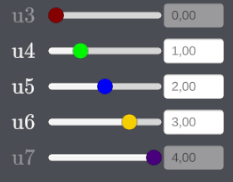
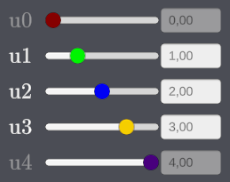
Added sidebar

diff --git a/manualeutente.html b/manualeutente.html
@@ -18,6 +18,38 @@
 </head>
 
 <body>
+<!-- SIDEBAR -->
+<div class="d-flex">
+<nav id="sidebar" class="bg-dark border-end p-3"
+    style="width:260px; height:100vh; position:sticky; top:0; overflow-y:auto;">
+
+    <h5 class="mb-3">Indice</h5>
+
+    <ul class="nav flex-column">
+
+        <li class="nav-item"><a class="nav-link" href="#menu-principale">Menu principale</a></li>
+        <li class="nav-item"><a class="nav-link" href="#ambienti-creazione">Ambienti di creazione</a></li>
+
+        <li class="nav-item ms-2"><a class="nav-link" href="#creazione-curva">Creazione curva</a></li>
+        <li class="nav-item ms-2"><a class="nav-link" href="#visualizzazione-curva">Visualizzazione curva</a></li>
+        <li class="nav-item ms-2"><a class="nav-link" href="#modifica-curva">Modifica curva</a></li>
+        <li class="nav-item ms-2"><a class="nav-link" href="#analisi-curva">Analisi curva</a></li>
+        <li class="nav-item ms-2"><a class="nav-link" href="#spazio-3d">Spazio 3D</a></li>
+
+        <li class="nav-item"><a class="nav-link" href="#menu-pannelli">Menu a pannelli</a></li>
+
+        <li class="nav-item ms-2"><a class="nav-link" href="#grafici-curvatura-torsione">Curvatura e torsione</a></li>
+        <li class="nav-item ms-2"><a class="nav-link" href="#punti-controllo">Punti di controllo</a></li>
+        <li class="nav-item ms-2"><a class="nav-link" href="#nodi-bspline">Nodi B-Spline</a></li>
+        <li class="nav-item ms-2"><a class="nav-link" href="#dominio-curva">Dominio curva</a></li>
+
+        <li class="nav-item"><a class="nav-link" href="#bottoni">Bottoni</a></li>
+        <li class="nav-item ms-2"><a class="nav-link" href="#bottone-piano-osculatore-binormale">Bottone di visualizzazione di piano osculatore e binormale</a></li>
+        <li class="nav-item ms-2"><a class="nav-link" href="#bottone-poligoni-bezier">Bottone di visualizzazione dei poligoni di Bezier</a></li>
+        <li class="nav-item ms-2"><a class="nav-link" href="#bottone-back">Bottone di ritorno</a></li>
+
+    </ul>
+</nav>
 
 <!-- NAVBAR -->
 <nav class="navbar navbar-expand-lg navbar-light fixed-top py-3" id="mainNav">
@@ -44,7 +76,7 @@
 <h1 class="mb-4">Manuale utente</h1>
 
 <!-- SEZIONE -->
-<h2>Menu principale</h2>
+<h2 id="menu-principale">Menu principale</h2>
 <div class="row align-items-center mb-5">
     <div class="col-md-7">
         <p>All'avvio l'applicazione presenta un menu con tre opzioni possibili di creazione di curve:</p>
@@ -60,7 +92,7 @@
     </div>
 </div>
 
-<h2>Ambienti di creazione</h2>
+<h2 id="ambienti-creazione">Ambienti di creazione</h2>
 <div class="row align-items-center mb-5">
     <div class="col-md-7">
         <p> Tutti e tre i possibili ambienti di creazione si presentano con un menu a pannelli a destra contente i dati della curva e uno spazio 3D a sinistra contenente la curva ed evidenziato dal sistema di riferimento indicato come segue: </p>
@@ -78,15 +110,14 @@
     </div>
 </div>
 
-<h3>Creazione della curva</h3>
+<h3 id="creazione-curva">Creazione della curva</h3>
 <div class="row align-items-center mb-5">
     <div class="col-md-12">
         <p>All’apertura di un ambiente di creazione la curva può essere creata posizionando i punti di controllo del poligono (4 per le Bezier di grado 3, 5 per le Bezier di grado 4, 7 per le B-Spline) nello spazio 3D (vedi sezione Spazio 3D).</p>
-
         <p>Sarà possibile eseguire questa operazione in due modi:</p>
 
         <ul>
-            <li>Cliccando con il tasto sinistro del mouse in un punto dello spazio 3D</li>
+            <li>Cliccando con il mouse in un punto dello spazio 3D</li>
             <li>Digitando le coordinate XYZ per ogni punto di controllo nel pannello corrispondente (vedi sezione Pannello dei punti di controllo)</li>
         </ul>
 
@@ -94,7 +125,7 @@
     </div>
 </div>
 
-<h3>Visualizzazione della curva</h3>
+<h3 id="visualizzazione-curva">Visualizzazione della curva</h3>
 <div class="row align-items-center mb-5">
     <div class="col-md-12">
         <p>Alla creazione della curva, la telecamera punterà sempre al centro di essa. Per visualizzarla da diverse angolazioni:</p>
@@ -104,19 +135,19 @@
             <li>Premendo D per ruotare verso destra</li>
             <li>Premendo W per ruotare verso l'alto</li>
             <li>Premendo S per ruotare verso il basso</li>
-            <li>Scorrendo la rotella del mouse in avanti per avvicinarsi</li>
-            <li>Scorrendo la rotella del mouse indietro per allontanarsi</li>
+            <li>Scorrendo la rotella del mouse in avanti per avvicinarsi, o con gesture da touchpad</li>
+            <li>Scorrendo la rotella del mouse indietro per allontanarsi, o con gesture da touchpad</li>
         </ul>
     </div>
 </div>
 
-<h3>Modifica della curva</h3>
+<h3 id="modifica-curva">Modifica della curva</h3>
 <div class="row align-items-center mb-5">
     <div class="col-md-12">
         <p>Una volta creata, la curva potrà essere modificata agendo in tre modi distinti:</p>
 
         <ul>
-            <li>Tenendo premuto con il tasto sinistro del mouse su un punto di controllo questo può essere trascinato in un punto a piacere dello spazio.</li>
+            <li>Tenendo premuto con il mouse su un punto di controllo questo può essere trascinato in un punto a piacere dello spazio.</li>
             <li>Inserendo un valore specifico per le coordinate X, Y o Z di un punto di controllo nel pannello (vedi sezione Pannello dei punti di controllo)</li>
             <li><strong>Solo per le B-Spline</strong>: modificando il valore di uno dei nodi della curva utilizzando il pannello corrispondente</li>
         </ul>
@@ -126,36 +157,42 @@
     </div>
 </div>
 
-<h3>Analisi della curva</h3>
+<h3 id="analisi-curva">Analisi della curva</h3>
 <div class="row align-items-center mb-5">
     <p>La curva presente a schermo può essere analizzata utilizzando i pannelli presenti nel menu a destra di ogni ambiente di creazione. Per maggiori dettagli leggere la sezione Menu a pannelli.</p>
 </div>
 
-<h3>Spazio 3D</h3>
+<h3 id="spazio-3d">Spazio 3D</h3>
 <div class="row align-items-center mb-5">
     <div class="col-md-7">
         <p>Lo spazio 3D posizionato sul lato sinistro di ogni ambiente di creazione conterrà la visualizzazione della curva prescelta:</p>
         <ul>
-            <li>Pallini bianchi: punti di controllo</li>
+            <li>Pallini bianchi: punti di controllo (interagili)</li>
             <li>Segmenti rossi: poligono di controllo</li>
             <li>Linea bianca: curva risultante</li>
-            <li>Pallino giallo: punto della cruva selezionato</li>
+            <li>Pallino giallo: marker dello specifico punto della curva selezionato</li>
+            <li>Freccia gialla: vettore binormale</li>
+            <li>Piano giallo: piano osculatore</li>
         </ul>
         <p><strong>Solo B-Spline</strong></p>
         <ul>
-            <li>Linee blu: poligono di controllo di Bezier</li>
+            <li>Linee blu: poligoni di controllo di Bezier</li>
             <li>Trattini verdi: punti di controllo di Bezier</li>
         </ul>
     </div>
     <div class="col-md-5 text-center">
-        <img src="Immagini/Curva.png" class="img-fluid rounded shadow" style="max-width:220px;">
-        <img src="Immagini/CurvaBspline.png" class="img-fluid rounded shadow" style="max-width:220px;">
+        <img src="Immagini/CurvaBezier.png" class="img-fluid rounded shadow" style="max-width:220px;">
+        <img src="Immagini/SectionSpline.png" class="img-fluid rounded shadow" style="max-width:220px;">
     </div>
 </div>
 
-<h2>Menu a pannelli</h2>
+<h2 id="menu-pannelli">Menu a pannelli</h2>
+<div class="row align-items-center mb-5">
+    <p> Il menu a pannelli posizionato sul lato destro di ogni ambiente di creazione permette di interagire con la curva e analizzarne i valori matematici.</p>
+    <p><strong>Nota bene</strong>: dopo l'interazione con un pannello cliccare in un punto generico dello spazio 3D per deselezionare il pannello.</p>
+</div>
 
-<h3>Pannello dei grafici di curvatura e torsione</h3>
+<h3 id="grafici-curvatura-torsione">Pannello dei grafici di curvatura e torsione</h3>
 <div class="row align-items-center mb-5">
     <div class="col-md-7">
         <p> Questo pannello permette di visualizzare, successivamente alla creazione della curva, i grafici di curvatura e torsione per ogni punto della curva lungo il suo dominio. Sull’asse Y sono presenti le etichette dei valori minimo (in basso) e massimo (in alto) dei rispettivi grafici. </p>
@@ -166,7 +203,7 @@
     </div>
 </div>
 
-<h3>Pannello dei punti di controllo</h3>
+<h3 id="punti-controllo">Pannello dei punti di controllo</h3>
 <div class="row align-items-center mb-5">
     <div class="col-md-7">
         <p> Questo pannello permette di creare (se non sono ancora stati creati) i punti di controllo o modificarne le coordinate XYZ (se già presenti), cliccando sulla corrispondente casella e inserendo un valore numerico. </p>
@@ -174,14 +211,15 @@
     </div>
     <div class="col-md-5 text-center">
         <img src="Immagini/Pannello punti di controllo.png" class="img-fluid rounded shadow" style="max-width:180px;">
+        <img src="Immagini/Pannello punti di controllo Spline.png" class="img-fluid rounded shadow" style="max-width:180px;">
     </div>
 </div>
 
-<h3>Pannello dei nodi della B-Spline</h3>
+<h3 id="nodi-bspline">Pannello dei nodi della B-Spline</h3>
 <div class="row align-items-center mb-5">
     <div class="col-md-7">
         <p> Presente solo nell’ambiente delle B-Spline, questo pannello permette di modificare la posizione dei nodi della curva sul dominio. Tenendo premuto con il tasto sinistro del mouse sul pallino dello slider e trascinando a destra e sinistra oppure inserendo un valore specifico nella casella a lato è possibile modificare la posizione del corrispondente nodo sul dominio. </p>
-        <p><strong>Nota bene</strong>: per rispettare la coerenza matematica i nodi u3 e u7 non sono interagibili ma sono comunque mostrati per chiarezza di lettura. Inoltre il valore del nodo selezionato non potrà mai diventare minore di quello del nodo precedente o maggiore di quello successivo, o uguale ad entrambi.</p>
+        <p><strong>Nota bene</strong>: per rispettare la coerenza matematica i nodi u0 e u4 non sono interagibili ma sono comunque mostrati per chiarezza di lettura. Inoltre il valore del nodo selezionato non potrà mai diventare minore di quello del nodo precedente o maggiore di quello successivo, o uguale ad entrambi.</p>
         <p><strong>Nota bene</strong>: l’approssimazione dei valori da inserire nella caselle è in centesimi e i numeri decimali vanno inseriti con la , e non con il .</p>
     </div>
     <div class="col-md-5 text-center">
@@ -189,7 +227,7 @@
     </div>
 </div>
 
-<h3>Pannello del dominio della curva</h3>
+<h3 id="dominio-curva">Pannello del dominio della curva</h3>
 <div class="row align-items-center mb-5">
     <div class="col-md-7">
         <p> Questo pannello ti permette di indagare un valore specifico della curva secondo il dominio. Tenendo premuto con il tasto sinistro del mouse sul pallino dello slider e trascinando a destra e sinistra, oppure inserendo un valore specifico della casella a lato è possibile scorrere lungo il dominio della curva. Una volta scelto un valore del dominio nel pannello sovrastante verranno mostrati rispettivamente: </p>
@@ -200,11 +238,11 @@
         </ul>
         <p><strong>Solo per B-Spline:</strong> sullo slider sono presenti anche 5 barrette verticali (presenti a scopi di visualizzazione e non interagibili) raffiguranti la posizione dei 5 nodi della curva sul dominio. Al variare dei nodi varierà anche la posizione di queste barrette. La corrispondenza tra nodi e barrette è data dal color coding:</p>
         <ul>
-            <li>Rosso: u3</li>
-            <li>Verde: u4</li>
-            <li>BLu: u5</li>
-            <li>Giallo: u6</li>
-            <li>Viola: u7</li>
+            <li>Rosso: u0</li>
+            <li>Verde: u1</li>
+            <li>BLu: u2</li>
+            <li>Giallo: u3</li>
+            <li>Viola: u4</li>
         </ul>
         <p><strong>Nota bene</strong>: l’approssimazione dei valori da inserire nella caselle è in centesimi e i numeri decimali vanno inseriti con la , e non con il .</p>
     </div>
@@ -215,7 +253,29 @@
     </div>
 </div>
 
-<h3>Bottone di ritorno</h3>
+<h2 id="bottoni">Bottoni</h2>
+
+<h3 id="bottone-piano-osculatore-binormale">Bottone di visualizzazione di piano osculatore e binormale</h3>
+<div class="row align-items-center mb-5">
+    <div class="col-md-7">
+        <p> Premendo questo bottone sarà possibile attivare o disattivare la visibilità del piano osculatore e del vettore binormale nel punto selezionato dal pannello del dominio (vedi sezione Pannello del dominio della curva) </p>
+    </div>
+    <div class="col-md-5 text-center">
+        <img src="Immagini/Osculating Plane.png" class="img-fluid rounded shadow" style="max-width:300px;">
+    </div>
+</div>
+
+<h3 id="bottone-poligoni-bezier">Bottone di visualizzazione dei poligoni di controllo di Bezier</h3>
+<div class="row align-items-center mb-5">
+    <div class="col-md-7">
+        <p> Premendo questo bottone sarà possibile attivare o disattivare la visibilità dei quattro poligoni di controllo di Bezier, legati alle quattro curve incollate. </p>
+    </div>
+    <div class="col-md-5 text-center">
+        <img src="Immagini/BezierPolygonButton.png" class="img-fluid rounded shadow" style="max-width:300px;">
+    </div>
+</div>
+
+<h3 id="bottone-back">Bottone di ritorno</h3>
 <div class="row align-items-center mb-5">
     <div class="col-md-7">
         <p> Premendo questo bottone, presente in basso, sarà possibile tornare al menu principale di selezione della curva. </p>
@@ -224,7 +284,7 @@
         <img src="Immagini/Bottone back.png" class="img-fluid rounded shadow" style="max-width:300px;">
     </div>
 </div>
-
+</div>
 </div>
 
 <!-- FOOTER -->

diff --git a/index.html b/index.html
@@ -54,7 +54,12 @@
 
             <div class="col-lg-8 align-self-baseline">
                 <p class="text-white-75 mb-4">
-                    Questo è un progetto di carattere didattico che si prefigge di fornire la possibilità di visualizzare e analizzare curve di Bezier e B-Spline. Permette di costruire, modificare e analizzare curve di Bezier di grado 3 e 4 e curve B-Spline di grado 3 con 4 incollamenti di curve di Bezier semplici.
+                    Questo è un progetto di carattere didattico che si prefigge di fornire la possibilità di visualizzare e analizzare curve di Bezier e B-Spline. 
+                    L'applicazione si concentra su due tipi di curve:
+                    <ul>
+                        <li>Curve di Bezier di grado 3 e 4</li>
+                        <li>Curve B-Spline di grado 3 con 4 incollamenti C2 di curve di Bezier semplici.</li>
+                    </ul>
                 </p>
 
                 <p class="text-white-75 mb-4">

diff --git a/css/styles.css b/css/styles.css
@@ -11057,3 +11057,17 @@ footer .text-muted {
   background-color: #0f1a3d !important;
   border-color: #0f1a3d !important;
 }
+/* NAVBAR SEMPRE SCURA */
+#mainNav {
+  background-color: #1e1e1e !important;
+}
+
+/* disattiva effetto bianco */
+#mainNav.navbar-shrink {
+  background-color: #1e1e1e !important;
+}
+
+/* forza rimozione stile bootstrap */
+.navbar-light {
+  background-color: #1e1e1e !important;
+}
